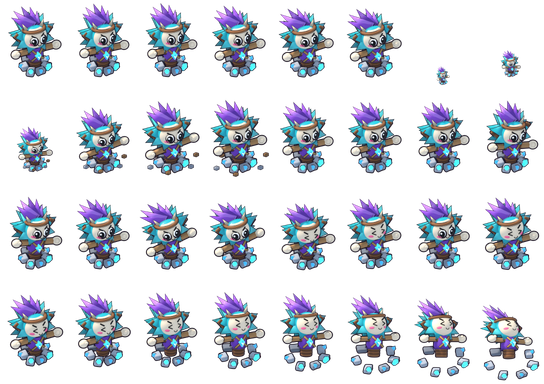
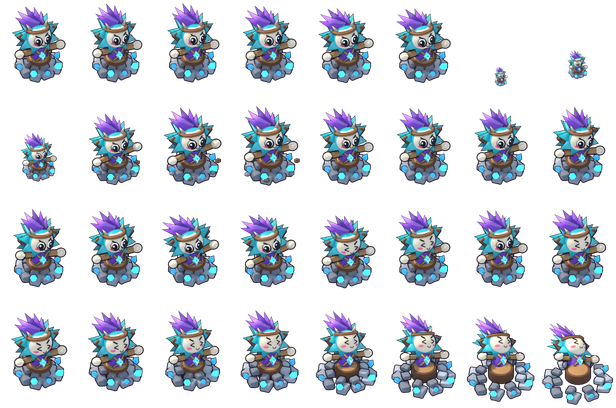
Release acceptance fixes: Snare contrast, Totem plinth, 1:1 soft sheets, Sentry fire replica
Rift Snare sigil gets a dark rim band and a thicker cyan rule line at the
exact radius so the area reads on bright grass. The Decoy Totem stands on a
stone plinth so it reads as a structure at 1x. Scout, Reaver and Rift Mortar
are repacked from their 2x masters at about 1:1 through a per-unit packer
downsample factor. The Rift Sentry's shot presentation now replays the
server fire rule from public frames and only shows shots the target visibly
took, with a real-engine parity test.

diff --git a/src/app/dev/battle/BattleCanvas.tsx b/src/app/dev/battle/BattleCanvas.tsx
@@ -58,11 +58,15 @@ import {
   engagedFoe,
   newUnitAnimState,
   nextView,
+  sentryTrack,
+  stepSentry,
   unitAnimFor,
   unitFrame,
   unitTextureKey,
   updateEngagement,
   type Foe,
+  type SentryFighter,
+  type SentryTrack,
   type UnitAnimManifest,
   type UnitAnimRecord,
   type UnitAnimState,
@@ -159,6 +163,9 @@ interface UnitMotion {
   /** Screen-space heading for the visual view: toward the foe when engaged,
    * else the motion delta, else null to keep the last view. */
   heading: { x: number; y: number } | null;
+  /** The attack clip plays only from firedAt (Rift Sentry replica), so a foe
+   * in reach never starts the engagement loop. */
+  eventFired?: boolean;
 }
 
 const hashPhase = (id: string) => {
@@ -292,6 +299,8 @@ export default function BattleCanvas({ feed, mapRef, onBoardTap, onBoardHover, h
       const impactFirstTick = new Map<string, number>();
       const projStyles = new Map<string, ProjectileStyle>();
       const buildingActiveAt = new Map<string, number>();
+      const sentryTracks = new Map<string, SentryTrack>();
+      const sentryShots = new Map<string, Foe>();
 
       const clearPresentationPools = () => {
         vfx?.clear();
@@ -299,6 +308,8 @@ export default function BattleCanvas({ feed, mapRef, onBoardTap, onBoardHover, h
         impactFirstTick.clear();
         projStyles.clear();
         buildingActiveAt.clear();
+        sentryTracks.clear();
+        sentryShots.clear();
         for (const e of pool.values()) e.root.destroy(true);
         pool.clear();
         for (const img of projPool.values()) img.destroy();
@@ -665,7 +676,7 @@ export default function BattleCanvas({ feed, mapRef, onBoardTap, onBoardHover, h
               // Pre-rendered sheet: the frames carry bob, stride, swing, hit
               // and defeat, so the procedural offsets below are skipped.
               const m = motion ?? { moving, foe: null, dx: px - e.lastX, heading: null };
-              e.animSt = updateEngagement(e.animSt, !m.moving && m.foe !== null, now);
+              e.animSt = updateEngagement(e.animSt, !m.moving && m.foe !== null && !m.eventFired, now);
               if (m.foe && Math.abs(m.foe.x - px) > 0.01) e.facingX = m.foe.x < px ? -1 : 1;
               else if (m.moving && Math.abs(m.dx) > 1e-3) e.facingX = m.dx < 0 ? -1 : 1;
               if (m.heading) e.view = nextView(e.view, m.heading.x, m.heading.y);
@@ -967,14 +978,17 @@ export default function BattleCanvas({ feed, mapRef, onBoardTap, onBoardHover, h
             }
           }
           // Presentation-only engagement for buildings. The Rift Sentry has no
-          // public fire event, so it swings like a troop: active (past its
-          // authoritative activeAt), with an enemy ground unit inside its
-          // centre-distance range. The Totem's lure plays while an enemy unit
-          // is near. Mortar and Burrow fire on their authoritative events.
+          // public fire event, so stepSentry replays its server fire rule from
+          // the public frames and shows a shot only when the target visibly
+          // took the damage that tick. The Totem's lure plays while an enemy
+          // unit is near. Mortar and Burrow fire on their authoritative events.
           const unitFoes = (owner: number): Foe[] => [
             ...frame.troops.filter((t) => t.owner !== owner).map((t) => ({ x: t.x, y: t.y, r: 0, air: t.air })),
             ...frame.commanders.filter((c) => c.owner !== owner).map((c) => ({ x: c.x, y: c.y, r: 0 })),
           ];
+          const fightersOf = (fr: BattleFrame | null): SentryFighter[] =>
+            fr ? [...fr.troops, ...fr.commanders].map((u) => ({ id: u.id, owner: u.owner, x: u.x, y: u.y, hp: u.hp, maxHp: u.maxHp, shield: u.shield ?? 0, air: !!u.air })) : [];
+          let sentryFighters: [SentryFighter[], SentryFighter[]] | null = null;
           for (const b of frame.buildings) {
             const x = sx(b.x);
             const y = sy(b.y);
@@ -983,10 +997,30 @@ export default function BattleCanvas({ feed, mapRef, onBoardTap, onBoardHover, h
             const banim = banim0 && banim0.kind === "building" && !missing.has(unitTextureKey(banim0.entityId)) && this.textures.exists(unitTextureKey(banim0.entityId)) ? banim0 : null;
             let bmotion: UnitMotion | undefined;
             if (banim) {
-              const active = frame.tick >= (buildingActiveAt.get(b.id) ?? -1);
-              const foe = active && (b.cardId === "rift_sentry" || b.cardId === "decoy_totem") ? engagedFoe(b, banim.reach, unitFoes(b.owner), 0.5, banim.hitsAir) : null;
               const up = seat === 0 ? -1 : 1;
-              bmotion = { moving: false, dx: 0, foe, heading: foe && b.cardId === "rift_sentry" ? { x: foe.x - b.x, y: up * (foe.y - b.y) } : null };
+              if (b.cardId === "rift_sentry") {
+                const act = buildingActiveAt.get(b.id);
+                const known = prev?.buildings.some((o) => o.id === b.id);
+                const track = sentryTracks.get(b.id) ?? (act !== undefined || known ? sentryTrack(act ?? frame.tick) : null);
+                if (track) {
+                  sentryFighters ??= [fightersOf(prev), fightersOf(frame)];
+                  const step = stepSentry(track, b, { range: banim.reach, interval: Math.round(banim.attackPeriodMs / 100) }, frame.tick, ...sentryFighters);
+                  sentryTracks.set(b.id, step.track);
+                  const be = pool.get(b.id);
+                  if (step.shot && be?.anim && !animationPriming) {
+                    be.animSt = { ...be.animSt, firedAt: now };
+                    sentryShots.set(b.id, { x: step.shot.x, y: step.shot.y, r: 0, air: step.shot.air });
+                  }
+                }
+                const be = pool.get(b.id);
+                const shot = sentryShots.get(b.id);
+                const foe = shot && be && now - be.animSt.firedAt < 600 ? shot : null;
+                bmotion = { moving: false, dx: 0, foe, heading: foe ? { x: foe.x - b.x, y: up * (foe.y - b.y) } : null, eventFired: true };
+              } else {
+                const active = frame.tick >= (buildingActiveAt.get(b.id) ?? -1);
+                const foe = active && b.cardId === "decoy_totem" ? engagedFoe(b, banim.reach, unitFoes(b.owner), 0.5, banim.hitsAir) : null;
+                bmotion = { moving: false, dx: 0, foe, heading: null };
+              }
             }
             spriteOrFallback(
               b.id,

diff --git a/src/app/dev/battle/unit-anim.test.ts b/src/app/dev/battle/unit-anim.test.ts
@@ -2,7 +2,8 @@ import { createHash } from "node:crypto";
 import { readFileSync } from "node:fs";
 import { join } from "node:path";
 import { describe, expect, it } from "vitest";
-import { BUILDING_CARDS_V1, COMMANDER_COMBAT_PROFILE_V1, SPAWNED_TROOPS_V1, TICKS_PER_SECOND, TROOP_CARDS_V1, reach2 } from "@/lib/combat";
+import { BUILDING_CARDS_V1, COMMANDER_COMBAT_PROFILE_V1, SPAWNED_TROOPS_V1, TICKS_PER_SECOND, TROOP_CARDS_V1, initMatch, reach2, stepMatch, type CombatState } from "@/lib/combat";
+import { deckWith, scenarioConfig } from "@/lib/arena-scenarios";
 import { portraitCandidatesForCard, portraitForCommanderClass, resolveCommanderAsset, resolveEntityAsset, type SpriteManifest } from "./sprite-registry";
 import {
   UNITS_URL,
@@ -14,9 +15,13 @@ import {
   newUnitAnimState,
   nextView,
   reachSq,
+  sentryTrack,
+  stepSentry,
   unitAnimFor,
   unitFrame,
   updateEngagement,
+  type SentryFighter,
+  type SentryTrack,
   type UnitAnimManifest,
   type UnitAnimRecord,
   type UnitClipName,
@@ -306,5 +311,78 @@ describe("unit animation state", () => {
     expect(unitAnimFor(manifest, "commander_paragon")).toBeNull();
     expect(unitAnimFor(null, "choglings")).toBeNull();
     expect(unitAnimFor(manifest, "choglings")?.entityId).toBe("choglings");
+  });
+});
+
+describe("Rift Sentry fire replica", () => {
+  const SENTRY = BUILDING_CARDS_V1.rift_sentry!;
+  const rule = { range: SENTRY.range, interval: SENTRY.attackIntervalTicks };
+  const b = { owner: 0, x: 50, y: 40 };
+  const f = (id: string, x: number, y: number, hp = 100, o: Partial<SentryFighter> = {}): SentryFighter => ({ id, owner: 1, x, y, hp, maxHp: 100, shield: 0, air: false, ...o });
+
+  it("matches the manifest timing to the live ruleset", () => {
+    const rec = manifest.units.rift_sentry!;
+    expect(rec.reach).toBe(SENTRY.range);
+    expect(Math.round(rec.attackPeriodMs / 100)).toBe(SENTRY.attackIntervalTicks);
+  });
+
+  it("waits for activeAt, then fires at most once per interval at the nearest landed target", () => {
+    let t = sentryTrack(20);
+    expect(stepSentry(t, b, rule, 19, [f("a", 50, 50)], [f("a", 50, 50, 84)]).shot).toBeNull();
+    t = stepSentry(t, b, rule, 19, [f("a", 50, 50)], [f("a", 50, 50, 84)]).track;
+    const s = stepSentry(t, b, rule, 20, [f("a", 50, 50), f("b", 50, 45)], [f("a", 50, 50, 84), f("b", 50, 45, 84)]);
+    expect(s.shot?.id).toBe("b");
+    expect(s.track.nextShot).toBe(20 + SENTRY.attackIntervalTicks);
+    expect(stepSentry(s.track, b, rule, 21, [f("b", 50, 45, 84)], [f("b", 50, 45, 60)]).shot).toBeNull();
+  });
+
+  it("keeps its lock, skips air, out-of-range and friendly fighters, and needs a visible hit", () => {
+    const t = { ...sentryTrack(0), targetId: "far", lastTick: 9 };
+    const prev = [f("far", 50, 55), f("near", 50, 42)];
+    expect(stepSentry(t, b, rule, 10, prev, [f("far", 50, 55, 84), f("near", 50, 42, 84)]).shot?.id).toBe("far");
+    const out = [f("air", 50, 41, 100, { air: true }), f("own", 50, 41, 100, { owner: 0 }), f("edge", 50, 56.01)];
+    expect(stepSentry(sentryTrack(0), b, rule, 10, out, out.map((x) => ({ ...x, hp: 50 }))).shot).toBeNull();
+    const noHit = stepSentry(sentryTrack(0), b, rule, 10, [f("a", 50, 50)], [f("a", 50, 50)]);
+    expect(noHit.shot).toBeNull();
+    expect(noHit.track.nextShot).toBe(10 + SENTRY.attackIntervalTicks);
+    expect(stepSentry(sentryTrack(0), b, rule, 10, [f("a", 50, 50, 100, { shield: 30 })], [f("a", 50, 50, 100, { shield: 14 })]).shot?.id).toBe("a");
+    expect(stepSentry(sentryTrack(0), b, rule, 10, [f("a", 50, 50, 10)], []).shot?.id).toBe("a");
+    expect(stepSentry({ ...sentryTrack(0), lastTick: 7 }, b, rule, 10, [f("a", 50, 50)], [f("a", 50, 50, 84)]).shot).toBeNull();
+  });
+
+  it("lands every replicated shot on the tick and target the real engine fires", () => {
+    const s = initMatch(scenarioConfig(deckWith("rift_sentry"), deckWith("boulderback", "choglings")));
+    const cmds = [
+      { seq: 1, player: 0 as const, tick: 1, cardId: "rift_sentry", x: 40, y: 70 },
+      { seq: 2, player: 1 as const, tick: 2, cardId: "boulderback", x: 30, y: 100 },
+      { seq: 3, player: 1 as const, tick: 40, cardId: "choglings", x: 50, y: 100 },
+    ];
+    const pub = (st: CombatState): SentryFighter[] =>
+      [...st.troops, ...st.commanders].filter((u) => u.hp > 0).map((u) => ({ id: u.id, owner: u.owner, x: u.x, y: u.y, hp: u.hp, maxHp: u.maxHp, shield: u.shieldHp, air: u.moveType === "air" }));
+    let prev: SentryFighter[] = [];
+    let track: SentryTrack | null = null;
+    let real = 0;
+    let shown = 0;
+    for (let i = 0; i < 400 && s.phase !== "final"; i++) {
+      const before = s.buildings[0] ? { cd: s.buildings[0].cooldownUntil } : null;
+      stepMatch(s, cmds.filter((c) => c.tick === s.tick + 1));
+      const sb = s.buildings.find((x) => x.cardId === "rift_sentry");
+      const cur = pub(s);
+      if (sb) {
+        track ??= sentryTrack(sb.cooldownUntil);
+        const fired = before !== null && sb.cooldownUntil !== before.cd;
+        const step = stepSentry(track, sb, rule, s.tick, prev, cur);
+        track = step.track;
+        if (fired) real += 1;
+        if (step.shot) {
+          shown += 1;
+          expect(fired).toBe(true);
+          expect(step.shot.id).toBe(sb.targetId);
+        }
+      }
+      prev = cur;
+    }
+    expect(real).toBeGreaterThan(5);
+    expect(shown).toBe(real);
   });
 });

diff --git a/src/app/dev/battle/unit-anim.ts b/src/app/dev/battle/unit-anim.ts
@@ -229,3 +229,68 @@ export function engagedFoe(u: { x: number; y: number }, reach: number, foes: Foe
   }
   return best;
 }
+
+/** A public troop or commander as the Sentry replica sees it. */
+export interface SentryFighter {
+  id: string;
+  owner: number;
+  x: number;
+  y: number;
+  hp: number;
+  maxHp: number;
+  shield: number;
+  air: boolean;
+}
+
+export interface SentryTrack {
+  /** First tick the Sentry may fire (activeAt, then shot tick + interval). */
+  nextShot: number;
+  targetId: string | null;
+  lastTick: number;
+}
+
+export const sentryTrack = (activeAt: number): SentryTrack => ({ nextShot: activeAt, targetId: null, lastTick: -1 });
+
+/**
+ * Presentation replica of the server's Rift Sentry fire rule (combat.ts v8),
+ * from public frame data only: no shot before activeAt, then at most one shot
+ * every `interval` ticks, keeping the locked target while it stays a living
+ * enemy ground fighter within centre distance `range`, else the nearest one,
+ * ties by id. The frame carries no Sentry event, so a replicated shot is
+ * shown only when its target visibly lost HP or shield that tick (or died),
+ * and a replica that drifts can only miss a shot, never draw one the server
+ * did not land. Call once per authoritative frame. `prev` is the previous
+ * frame's fighters, which still hold any fighter killed this tick.
+ */
+export function stepSentry(
+  st: SentryTrack,
+  b: { owner: number; x: number; y: number },
+  rule: { range: number; interval: number },
+  tick: number,
+  prev: SentryFighter[],
+  cur: SentryFighter[]
+): { track: SentryTrack; shot: SentryFighter | null } {
+  if (tick <= st.lastTick) return { track: st, shot: null };
+  const next = { ...st, lastTick: tick };
+  if (tick < st.nextShot) return { track: next, shot: null };
+  const now = new Map(cur.map((f) => [f.id, f]));
+  const before = new Map(prev.map((f) => [f.id, f]));
+  const cands = [...cur, ...prev.filter((f) => !now.has(f.id))];
+  const r2 = rule.range * rule.range;
+  const d2 = (f: SentryFighter) => (f.x - b.x) ** 2 + (f.y - b.y) ** 2;
+  const valid = (f: SentryFighter) => f.owner !== b.owner && !f.air && d2(f) <= r2;
+  let target = st.targetId ? cands.find((f) => f.id === st.targetId && valid(f)) ?? null : null;
+  if (!target) {
+    for (const f of cands) {
+      if (!valid(f)) continue;
+      if (!target || d2(f) < d2(target) || (d2(f) === d2(target) && f.id < target.id)) target = f;
+    }
+  }
+  if (!target) return { track: { ...next, targetId: null }, shot: null };
+  const was = before.get(target.id);
+  const after = now.get(target.id);
+  // After a skipped frame the HP delta spans more than this tick, so it can't confirm a shot.
+  const gap = st.lastTick >= 0 && tick > st.lastTick + 1;
+  const landed = !gap && (!after || after.hp < (was?.hp ?? after.maxHp) || (was !== undefined && after.shield < was.shield));
+  return { track: { ...next, nextShot: tick + rule.interval, targetId: target.id }, shot: landed ? (after ?? target) : null };
+}

diff --git a/src/app/dev/battle/battle-vfx.ts b/src/app/dev/battle/battle-vfx.ts
@@ -287,7 +287,7 @@ export function spellCastVfx(e: FrameEvent, ctx: SpellCtx): VfxSprite[] {
   if (id === "rift_snare") {
     const s = (r * VFX_S) / TEX_RADIUS["snare-sigil"];
     return [
-      { tex: "snare-sigil", x, y, life: 950 * k, scale: s * 0.82, scale1: s, alpha: 1, alpha1: 0, fadeIn: 0.1, fadeAt: 0.55, rot: 0, spin: 0.4, blend: "normal", layer: "ground", ease: "out" },
+      { tex: "snare-sigil", x, y, life: 1200 * k, scale: s * 0.9, scale1: s, alpha: 1, alpha1: 0, fadeIn: 0.08, fadeAt: 0.62, rot: 0, spin: 0.3, blend: "normal", layer: "ground", ease: "out" },
       ringAt(x, y, r, VFX_COLORS.snareCyan, 500 * k, { alpha: 1, alpha1: 0 }),
       glowAt(x, y, VFX_COLORS.snare, 1.4, 320 * k, 0, "ground"),
       ...(ctx.reduced ? [] : sparks(rnd, x, y, 8, r, VFX_COLORS.snareCyan, 420, 3)),

diff --git a/tools/blender/chog-units-v001/scripts/build_final.py b/tools/blender/chog-units-v001/scripts/build_final.py
@@ -270,10 +270,15 @@ def decoy_totem():
     rnd = random.Random(1414)
     body = (0, 0, 0.4)
     stones = (B["stoneA"], B["stoneB"], B["stoneC"])
-    stone_ring(rig, "base", rnd, 7, 0.86, 0.2, (0.7, 0.55, 0.42), stones, body)
-    for (x, y, dx, L, rad, m) in ((-0.62, -0.78, -0.4, 0.62, 0.2, B["cyan"]), (0.66, -0.74, 0.45, 0.66, 0.21, B["cyan"]), (0.02, -0.98, 0.0, 0.5, 0.17, B["cyanDeep"]),
-                                  (-0.95, 0.15, -0.7, 0.5, 0.17, B["cyanDeep"]), (0.95, 0.2, 0.7, 0.5, 0.17, B["cyanDeep"])):
-        crystal(rig, "base", (x, y, 0.12), (dx, y * 0.4, 1.0), L, rad, m, ol=0.04, twist=rnd.uniform(0, 1), shatter=body)
+    # Acceptance pass: a broad two-tier stone plinth around a wooden stump, so
+    # the Totem reads as a planted structure at 1x instead of a standing troop.
+    stone_ring(rig, "base", rnd, 10, 1.3, 0.2, (0.92, 0.7, 0.5), stones, body)
+    stone_ring(rig, "base", rnd, 8, 0.86, 0.62, (0.7, 0.56, 0.44), stones, body)
+    part(rig, "base", "cyl", (0, 0, 0.5), (0.95, 0.95, 0.95), B["woodDeep"], ol=0.04, vertices=20, bev=0.04)
+    part(rig, "base", "cyl", (0, 0, 0.98), (0.78, 0.78, 0.08), B["woodLight"], ol=0.03, vertices=20, bev=0.03)
+    for (x, y, dx, L, rad, m) in ((-0.82, -1.08, -0.45, 0.95, 0.27, B["cyan"]), (0.88, -1.02, 0.5, 1.0, 0.28, B["cyan"]), (0.04, -1.36, 0.0, 0.72, 0.22, B["cyanDeep"]),
+                                  (-1.38, 0.1, -0.7, 0.72, 0.22, B["cyanDeep"]), (1.38, 0.18, 0.7, 0.72, 0.22, B["cyanDeep"])):
+        crystal(rig, "base", (x, y, 0.14), (dx, y * 0.4, 1.0), L, rad, m, ol=0.04, twist=rnd.uniform(0, 1), shatter=body)
     # Carved pole and tabard.
     part(rig, "body", "cyl", (0, 0, 1.1), (0.42, 0.42, 1.7), B["wood"], ol=0.045, vertices=18, bev=0.04)
     for z in (0.5, 0.75):
